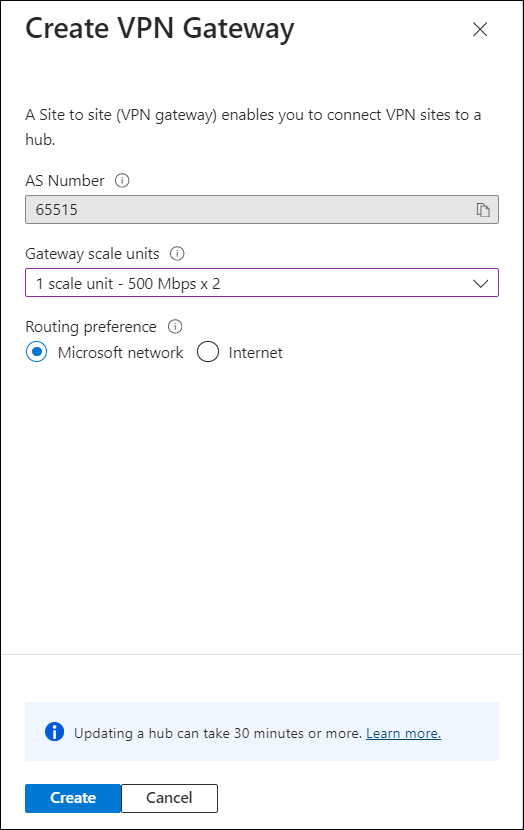
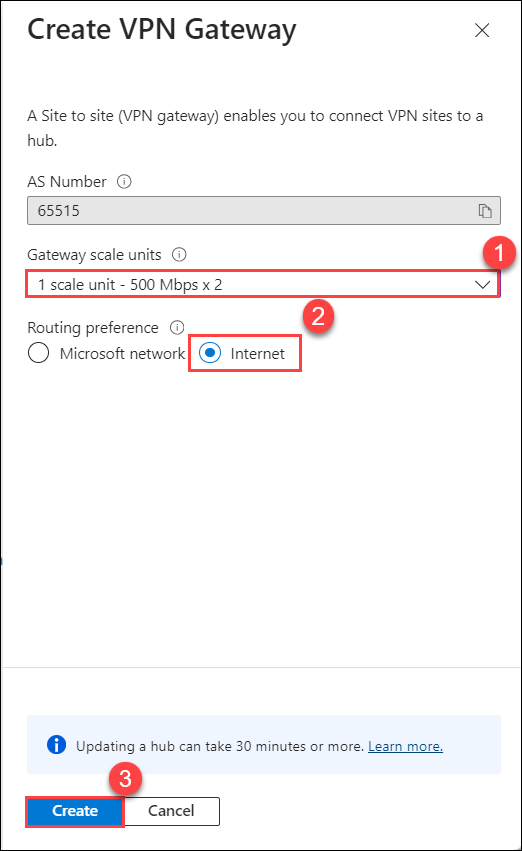
Updated exercise 3

diff --git a/Labfiles-101-v2/04. Provision Hybrid Connectivity .md b/Labfiles-101-v2/04. Provision Hybrid Connectivity .md
@@ -69,21 +69,19 @@ In this exercise you will provision connectivity from on-premises to Azure via S
 
    - **Routing preference (2)** : Select **Internet**
 
+   - Click on **Create(3)**.
 
-   - Click on **Create()**.
+     ![](./Media/134.png)
 
-
-      ![](./Media/134.png)
-
-   >**Note** : It may take upto 30 minutes for the update.
+   >**Note** : This may take up-to 30 minutes for the update. wait for it to get update.
 
 1. Under the hub, perform the following steps:
 
- - Click the **View/Configure hyperlink (1)**. 
- - Under the Edit VPN Gateway, record in Notepad the **Public IP address for VPN Gateway instance 0 (2)**. This Public IP will be used in later on-premises VPN step configuration.
- - Click on **cancel (3)**. 
+   - Click the **View/Configure hyperlink (1)**. 
+   - Under the Edit VPN Gateway, record in Notepad the **Public IP address for VPN Gateway instance 0 (2)**. This Public IP will be used in later on-premises VPN step configuration.
+   - Click on **cancel (3)**. 
 
-   ![](./Media/37.png)
+      ![](./Media/37.png)
 
 1. On the **VPN (site to site)** Under Gateway configuration click on **Clear all filters**.
 
